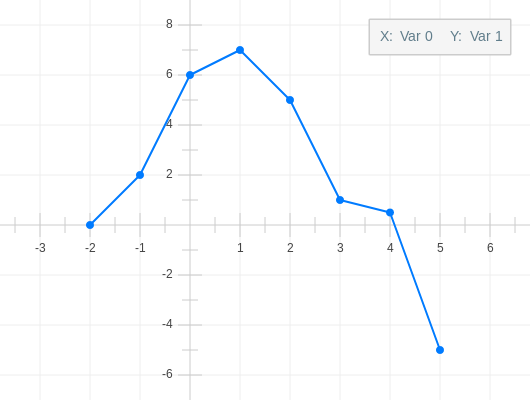
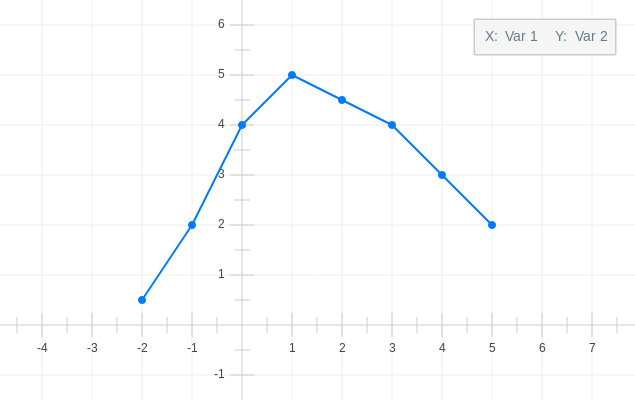
Fixed the variable display on the simulation.

diff --git a/estadistica/visualizacion_datos/main.js b/estadistica/visualizacion_datos/main.js
@@ -191,8 +191,8 @@ function getDataFromTable() {
 function reset() {
 
   // Update box labels for displaying the currently selected variables.
-  labels.x.set("Var " + xVariable);
-  labels.y.set("Var " + yVariable);
+  labels.x.set("Var " + (xVariable + 1));
+  labels.y.set("Var " + (yVariable + 1));
 
   // In order to scale the axis for fitting the data correctly,
   // the dimensions of the data must be calculated. These variables
